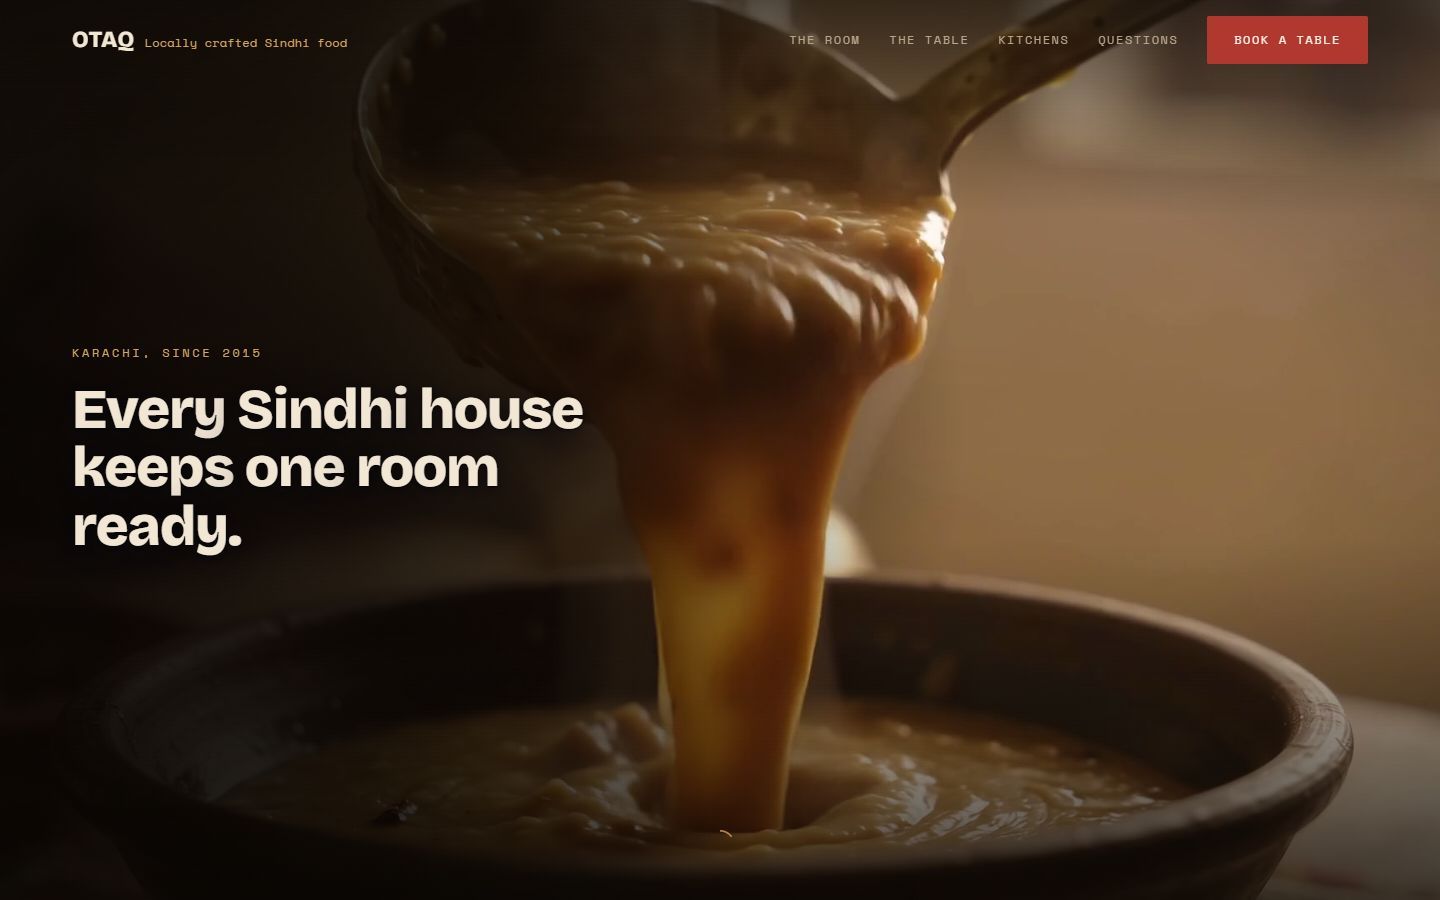
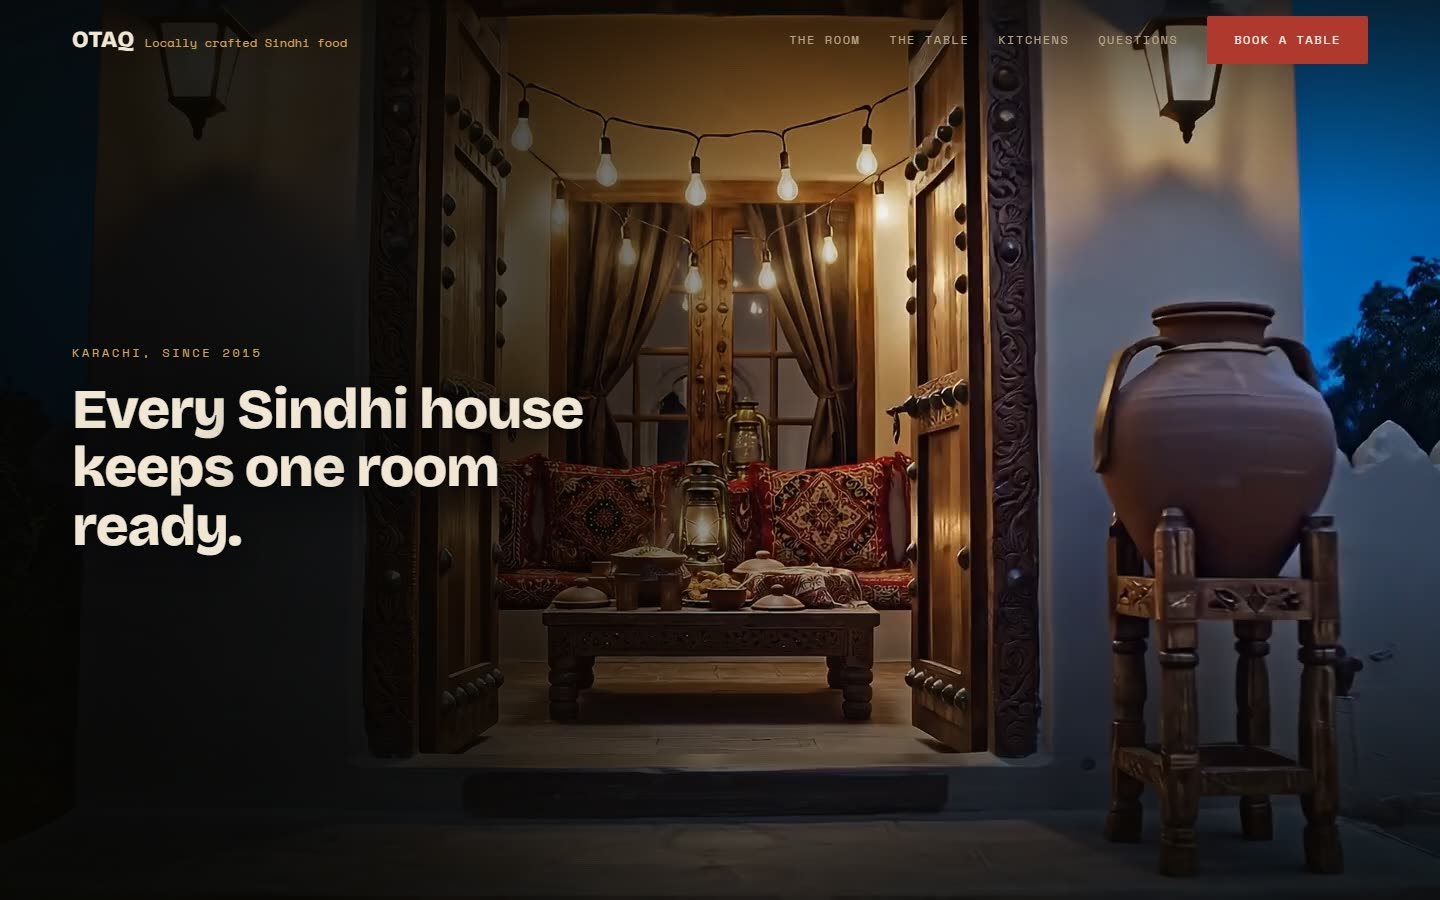
Update Otaq card for the v2 site

diff --git a/index.html b/index.html
@@ -543,7 +543,7 @@ setTimeout(function(){document.querySelectorAll('.reveal').forEach(function(el){
           <div class="shot"><img src="assets/work-otaq.jpg" alt="Otaq Sindhi restaurant site" loading="lazy" decoding="async" width="1440" height="900"></div>
           <div class="meta">
             <h3>Otaq <svg viewBox="0 0 24 24" fill="none" stroke="currentColor" stroke-width="2" aria-hidden="true"><path d="M7 17 17 7M8 7h9v9"/></svg></h3>
-            <p>A Sindhi restaurant concept with two kitchens, a buffet story and table booking.</p>
+            <p>A Sindhi restaurant concept. Scroll and the camera walks you through the otaq door to a laid table, then the thali and the dishes.</p>
             <div class="labels"><span>Restaurant</span><span>Booking</span></div>
           </div>
         </a>
